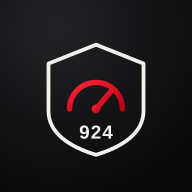
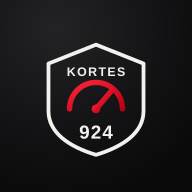
Add split type (proportional vs equal) for other costs, rebrand to Kortes 924 Garage

Changed region(s): [[0.3438, 0.3438, 0.6562, 0.4062]]

diff --git a/js/app.js b/js/app.js
@@ -570,19 +570,24 @@
     $('#otherCostEmpty').hidden = entries.length > 0;
     listEl.innerHTML = entries
       .map(
-        (o) => `
+        (o) => {
+          const splitType = Calc.otherCostSplitType(o);
+          const splitLabel = splitType === 'equal' ? 'Gleich verteilt' : 'Anteilig an km';
+          return `
       <div class="entry-row" data-testid="row-othercost-${o.id}">
         <div class="entry-row__avatar">${escapeHtml(Fmt.initials(o.driver))}</div>
         <div class="entry-row__body">
           <div class="entry-row__title">${escapeHtml(o.title || '–')}</div>
           <div class="entry-row__meta">${Fmt.date(o.date)} · ${escapeHtml(o.driver || '–')}${o.notes ? ' · ' + escapeHtml(o.notes) : ''}</div>
+          <span class="entry-row__badge ${splitType === 'equal' ? 'entry-row__badge--equal' : ''}">${splitLabel}</span>
         </div>
         <div class="entry-row__value">${Fmt.eur(o.amount)}</div>
         <div class="entry-row__actions">
           <button class="entry-row__icon-btn" data-edit-othercost="${o.id}" type="button" aria-label="Bearbeiten" data-testid="button-edit-othercost-${o.id}">✎</button>
           <button class="entry-row__icon-btn" data-delete-othercost="${o.id}" type="button" aria-label="Löschen" data-testid="button-delete-othercost-${o.id}">🗑</button>
         </div>
-      </div>`
+      </div>`;
+        }
       )
       .join('');
 
@@ -627,13 +632,16 @@
     const otherEntries = Calc.otherCostsForYear(state, year).slice().sort((a, b) => new Date(a.date) - new Date(b.date));
     const otherHtml = otherEntries.length
       ? otherEntries
-          .map((o) => `<tr><td>${Fmt.date(o.date)}</td><td>${escapeHtml(o.driver || '–')}</td><td>${escapeHtml(o.title || '–')}</td><td class="num">${Fmt.eur(o.amount)}</td></tr>`)
+          .map((o) => {
+            const label = Calc.otherCostSplitType(o) === 'equal' ? 'Gleich verteilt' : 'Anteilig an km';
+            return `<tr><td>${Fmt.date(o.date)}</td><td>${escapeHtml(o.driver || '–')}</td><td>${escapeHtml(o.title || '–')}</td><td>${label}</td><td class="num">${Fmt.eur(o.amount)}</td></tr>`;
+          })
           .join('')
-      : '<tr><td colspan="4">Keine sonstigen Kosten in diesem Jahr.</td></tr>';
+      : '<tr><td colspan="5">Keine sonstigen Kosten in diesem Jahr.</td></tr>';
 
     const html = `
       <h1>${escapeHtml(v.name || 'Porsche 924')} – Kostenabrechnung ${year}</h1>
-      <p class="pr-sub">Erstellt am ${Fmt.date(todayIso())} · Kosten anteilig an den gefahrenen Kilometern aufgeteilt (Tanken + sonstige Kosten)</p>
+      <p class="pr-sub">Erstellt am ${Fmt.date(todayIso())} · Tanken und "anteilig an km"-Kosten werden nach gefahrenen Kilometern verteilt, "gleich verteilt"-Kosten zu gleichen Teilen unter allen Fahrern</p>
 
       <h2>Gesamtabrechnung</h2>
       <table>
@@ -647,11 +655,11 @@
 
       <h2>Sonstige Kosten im Detail</h2>
       <table>
-        <thead><tr><th>Datum</th><th>Bezahlt von</th><th>Bezeichnung</th><th class="num">Betrag</th></tr></thead>
+        <thead><tr><th>Datum</th><th>Bezahlt von</th><th>Bezeichnung</th><th>Kostenart</th><th class="num">Betrag</th></tr></thead>
         <tbody>${otherHtml}</tbody>
       </table>
 
-      <p class="pr-footer">Porsche 924 Garage – automatisch erstellte Abrechnung. Positiver Saldo = Guthaben, negativer Saldo = offene Zahlung.</p>
+      <p class="pr-footer">Kortes 924 Garage – automatisch erstellte Abrechnung. Positiver Saldo = Guthaben, negativer Saldo = offene Zahlung.</p>
     `;
 
     const report = $('#printReport');
@@ -798,6 +806,19 @@
       $('#otherCostOtherWrap').hidden = otherCostDriver.value !== OTHER_DRIVER;
     });
 
+    const splitTypeHints = {
+      km: 'Wird anteilig nach gefahrenen Kilometern verteilt – z. B. Versicherung, Zulassung.',
+      equal: 'Wird zu gleichen Teilen unter allen Fahrern aufgeteilt – z. B. neues Radio, Zubehör.',
+    };
+    $all('.chip', $('#otherCostSplitTypeRow')).forEach((chip) => {
+      chip.addEventListener('click', () => {
+        $all('.chip', $('#otherCostSplitTypeRow')).forEach((c) => c.classList.remove('is-active'));
+        chip.classList.add('is-active');
+        $('#otherCostSplitType').value = chip.dataset.splitType;
+        $('#otherCostSplitTypeHint').textContent = splitTypeHints[chip.dataset.splitType] || splitTypeHints.km;
+      });
+    });
+
     $('#otherCostForm').addEventListener('submit', (e) => {
       e.preventDefault();
       const id = $('#otherCostId').value || undefined;
@@ -805,6 +826,7 @@
       const date = $('#otherCostDate').value;
       const title = $('#otherCostTitle').value.trim();
       const amount = Number($('#otherCostAmount').value);
+      const splitType = $('#otherCostSplitType').value === 'equal' ? 'equal' : 'km';
       const notes = $('#otherCostNotes').value.trim();
       const errorEl = $('#otherCostError');
 
@@ -814,7 +836,7 @@
       if (isNaN(amount) || amount <= 0) return showFieldError(errorEl, 'Bitte einen gültigen Betrag angeben.');
       errorEl.hidden = true;
 
-      Store.upsertOtherCost({ id, driver, date, title, amount, notes });
+      Store.upsertOtherCost({ id, driver, date, title, amount, splitType, notes });
       closeModal();
       showToast('Kosten gespeichert');
     });
@@ -1021,6 +1043,13 @@
     $('#otherCostTitle').value = o ? o.title || '' : '';
     $('#otherCostAmount').value = o ? o.amount : '';
     $('#otherCostNotes').value = o ? o.notes || '' : '';
+    const splitType = Calc.otherCostSplitType(o);
+    $('#otherCostSplitType').value = splitType;
+    const splitRow = $('#otherCostSplitTypeRow');
+    $all('.chip', splitRow).forEach((c) => c.classList.toggle('is-active', c.dataset.splitType === splitType));
+    $('#otherCostSplitTypeHint').textContent = splitType === 'equal'
+      ? 'Wird zu gleichen Teilen unter allen Fahrern aufgeteilt – z. B. neues Radio, Zubehör.'
+      : 'Wird anteilig nach gefahrenen Kilometern verteilt – z. B. Versicherung, Zulassung.';
     openModal('modal-othercost');
   }
 

diff --git a/js/data.js b/js/data.js
@@ -217,6 +217,12 @@ const Calc = {
   },
 
   // ---- Sonstige Kosten (Zulassung, Radio, Zubehör, etc.) ----
+  // Kostenart eines Eintrags: 'km' = anteilig an gefahrenen Kilometern (Standard, z. B. Versicherung),
+  // 'equal' = einmalige Anschaffung, zu gleichen Teilen unter allen Fahrern aufgeteilt (z. B. neues Radio).
+  otherCostSplitType(o) {
+    return o && o.splitType === 'equal' ? 'equal' : 'km';
+  },
+
   otherCostsForYear(state, year) {
     return state.othercosts.filter((o) => o.date && new Date(o.date).getFullYear() === year);
   },
@@ -235,7 +241,21 @@ const Calc = {
     return this.otherCostsForYear(state, year).reduce((sum, o) => sum + (o.amount || 0), 0);
   },
 
-  // ---- Gesamtabrechnung: Tankkosten + Sonstige Kosten, anteilig an gefahrenen km ----
+  // Summe der "anteilig an km"-Kosten (sonstige Kosten, ohne Tanken)
+  totalOtherCostKmYear(state, year) {
+    return this.otherCostsForYear(state, year)
+      .filter((o) => this.otherCostSplitType(o) === 'km')
+      .reduce((sum, o) => sum + (o.amount || 0), 0);
+  },
+
+  // Summe der "einmalig, gleich verteilt"-Kosten
+  totalOtherCostEqualYear(state, year) {
+    return this.otherCostsForYear(state, year)
+      .filter((o) => this.otherCostSplitType(o) === 'equal')
+      .reduce((sum, o) => sum + (o.amount || 0), 0);
+  },
+
+  // ---- Gesamtabrechnung: wer hat tatsächlich bezahlt (Tanken + alle sonstigen Kosten) ----
   combinedCostByDriver(state, year) {
     const fuel = this.costByDriver(state, year);
     const other = this.otherCostsByDriver(state, year);
@@ -251,24 +271,38 @@ const Calc = {
     return this.totalCostYear(state, year) + this.totalOtherCostYear(state, year);
   },
 
+  // ---- Gesamtabrechnung: Tankkosten + "anteilig an km"-Kosten werden nach gefahrenen Kilometern verteilt,
+  //      "einmalig"-Kosten werden zu gleichen Teilen unter allen Fahrern aufgeteilt ----
   fairSplitAll(state, year) {
-    return this._splitByCost(state, year, this.combinedCostByDriver(state, year), this.combinedTotalCostYear(state, year));
+    const kmBasedTotal = this.totalCostYear(state, year) + this.totalOtherCostKmYear(state, year);
+    const equalBasedTotal = this.totalOtherCostEqualYear(state, year);
+    const paidMap = this.combinedCostByDriver(state, year);
+    return this._splitMixed(state, year, paidMap, kmBasedTotal, equalBasedTotal);
   },
 
   _splitByCost(state, year, costMap, totalCost) {
+    return this._splitMixed(state, year, costMap, totalCost, 0);
+  },
+
+  _splitMixed(state, year, paidMap, kmBasedTotal, equalBasedTotal) {
     const kmMap = this.kmByDriver(state, year);
     const totalKm = Object.values(kmMap).reduce((a, b) => a + b, 0);
-    const names = new Set([...Object.keys(kmMap), ...Object.keys(costMap)]);
+    const numDrivers = state.drivers.length || 1;
+    const equalShare = equalBasedTotal / numDrivers;
+    const names = new Set([...state.drivers, ...Object.keys(kmMap), ...Object.keys(paidMap)]);
     const rows = [];
     names.forEach((name) => {
       const km = kmMap[name] || 0;
-      const paid = costMap[name] || 0;
+      const paid = paidMap[name] || 0;
       const percent = totalKm > 0 ? km / totalKm : 0;
-      const shouldPay = totalCost * percent;
-      rows.push({ name, km, percent, paid, shouldPay, balance: paid - shouldPay });
+      const isRegisteredDriver = state.drivers.includes(name);
+      const kmSharePay = kmBasedTotal * percent;
+      const equalSharePay = isRegisteredDriver ? equalShare : 0;
+      const shouldPay = kmSharePay + equalSharePay;
+      rows.push({ name, km, percent, paid, shouldPay, equalSharePay, balance: paid - shouldPay });
     });
     return rows
-      .filter((r) => r.km > 0 || r.paid > 0)
+      .filter((r) => r.km > 0 || r.paid > 0 || state.drivers.includes(r.name))
       .sort((a, b) => b.km - a.km);
   },
 

diff --git a/index.html b/index.html
@@ -3,7 +3,7 @@
 <head>
 <meta charset="UTF-8">
 <meta name="viewport" content="width=device-width, initial-scale=1, maximum-scale=1, viewport-fit=cover">
-<title>Porsche 924 Garage</title>
+<title>Kortes 924 Garage</title>
 <meta name="description" content="Digitales Bordbuch für den gemeinsamen Porsche 924 – Kilometer, Tankkosten und Wartung im Blick.">
 <meta name="theme-color" content="#0a0b0d">
 <link rel="manifest" href="manifest.json">
@@ -11,7 +11,7 @@
 <link rel="apple-touch-icon" href="icons/icon-192.png">
 <meta name="apple-mobile-web-app-capable" content="yes">
 <meta name="apple-mobile-web-app-status-bar-style" content="black-translucent">
-<meta name="apple-mobile-web-app-title" content="924 Garage">
+<meta name="apple-mobile-web-app-title" content="Kortes 924 Garage">
 
 <link rel="preconnect" href="https://api.fontshare.com">
 <link href="https://api.fontshare.com/v2/css?f[]=cabinet-grotesk@700,500,400&f[]=general-sans@400,500,600,700&display=swap" rel="stylesheet">
@@ -43,6 +43,7 @@
       <circle cx="24" cy="27" r="2" fill="var(--color-primary)"/>
       <text x="24" y="39" text-anchor="middle" font-family="'Cabinet Grotesk', sans-serif" font-weight="700" font-size="8" fill="currentColor" letter-spacing="1">924</text>
     </svg>
+    <p class="lock-screen__eyebrow">Kortes</p>
     <h1 class="lock-screen__title">924 Garage</h1>
     <p class="lock-screen__subtitle">Nur für die Crew. Kennwort eingeben, um fortzufahren.</p>
     <input class="lock-screen__input" id="lockPassword" type="password" inputmode="text" autocapitalize="characters" placeholder="Kennwort" data-testid="input-lock-password" required>
@@ -65,7 +66,7 @@
         <text x="24" y="39" text-anchor="middle" font-family="'Cabinet Grotesk', sans-serif" font-weight="700" font-size="8" fill="currentColor" letter-spacing="1">924</text>
       </svg>
       <div class="app-header__title">
-        <span class="app-header__eyebrow">Porsche</span>
+        <span class="app-header__eyebrow">Kortes</span>
         <span class="app-header__name">924 Garage</span>
       </div>
     </div>
@@ -331,7 +332,7 @@
           </div>
         </div>
         <div class="card app-info">
-          <p>Porsche 924 Garage · Version 1.0</p>
+          <p>Kortes 924 Garage · Version 1.0</p>
           <p class="card__hint">Für Silas, Jason, Elias &amp; Samuel.</p>
         </div>
       </div>
@@ -492,6 +493,15 @@
       <label class="field"><span>Datum</span><input type="date" id="otherCostDate" data-testid="input-othercost-date"></label>
       <label class="field"><span>Bezeichnung</span><input type="text" id="otherCostTitle" placeholder="z. B. Zulassung, Autoradio, Versicherung" data-testid="input-othercost-title"></label>
       <label class="field"><span>Betrag (€)</span><input type="number" step="0.01" id="otherCostAmount" data-testid="input-othercost-amount"></label>
+      <div class="field">
+        <span>Kostenart</span>
+        <div class="chip-row" id="otherCostSplitTypeRow">
+          <button type="button" class="chip is-active" data-split-type="km" data-testid="chip-splittype-km">Anteilig an km</button>
+          <button type="button" class="chip" data-split-type="equal" data-testid="chip-splittype-equal">Einmalig, gleich verteilt</button>
+        </div>
+        <input type="hidden" id="otherCostSplitType" value="km">
+        <p class="field__hint" id="otherCostSplitTypeHint">Wird anteilig nach gefahrenen Kilometern verteilt – z. B. Versicherung, Zulassung.</p>
+      </div>
       <label class="field"><span>Notizen (optional)</span><textarea id="otherCostNotes" rows="2" data-testid="input-othercost-notes"></textarea></label>
       <p class="field-error" id="otherCostError" hidden></p>
       <div class="modal__actions">

diff --git a/css/style.css b/css/style.css
@@ -383,6 +383,13 @@ a, button, [role='button'], input, textarea, select {
 .entry-row__body { flex: 1; min-width: 0; }
 .entry-row__title { font-weight: 600; font-size: var(--text-sm); }
 .entry-row__meta { font-size: var(--text-xs); color: var(--color-text-faint); margin-top: 2px; }
+.entry-row__badge {
+  display: inline-block; margin-top: var(--space-2);
+  font-size: 10px; font-weight: 700; letter-spacing: 0.04em; text-transform: uppercase;
+  padding: 2px 8px; border-radius: var(--radius-sm);
+  background: var(--color-surface-offset); color: var(--color-text-muted);
+}
+.entry-row__badge--equal { background: color-mix(in srgb, var(--color-primary) 18%, transparent); color: var(--color-primary); }
 .entry-row__value { font-family: var(--font-mono); font-weight: 700; font-size: var(--text-sm); text-align: right; flex-shrink: 0; }
 .entry-row__actions { display: flex; gap: var(--space-1); flex-shrink: 0; }
 .entry-row__icon-btn {
@@ -476,6 +483,7 @@ a, button, [role='button'], input, textarea, select {
 
 .form { display: flex; flex-direction: column; gap: var(--space-4); }
 .field { display: flex; flex-direction: column; gap: var(--space-2); flex: 1; min-width: 0; }
+.field__hint { font-size: var(--text-xs); color: var(--color-text-faint); margin: 0; }
 .field > span { font-size: var(--text-xs); font-weight: 600; color: var(--color-text-muted); }
 .field input, .field select, .field textarea {
   width: 100%; box-sizing: border-box;
@@ -683,6 +691,13 @@ body.is-locked .app-shell { display: none; }
   padding: var(--space-7) var(--space-6);
   box-shadow: var(--shadow-lg);
   color: var(--color-text);
+}
+.lock-screen__eyebrow {
+  font-size: var(--text-xs);
+  color: var(--color-text-faint);
+  letter-spacing: 0.08em;
+  text-transform: uppercase;
+  margin: 0;
 }
 .lock-screen__title {
   font-family: var(--font-display);

diff --git a/service-worker.js b/service-worker.js
@@ -1,6 +1,6 @@
 /* Porsche 924 Garage — Service Worker (App-Shell-Caching) */
 
-const CACHE_NAME = 'p924-garage-v3';
+const CACHE_NAME = 'p924-garage-v4';
 const APP_SHELL = [
   './',
   './index.html',
